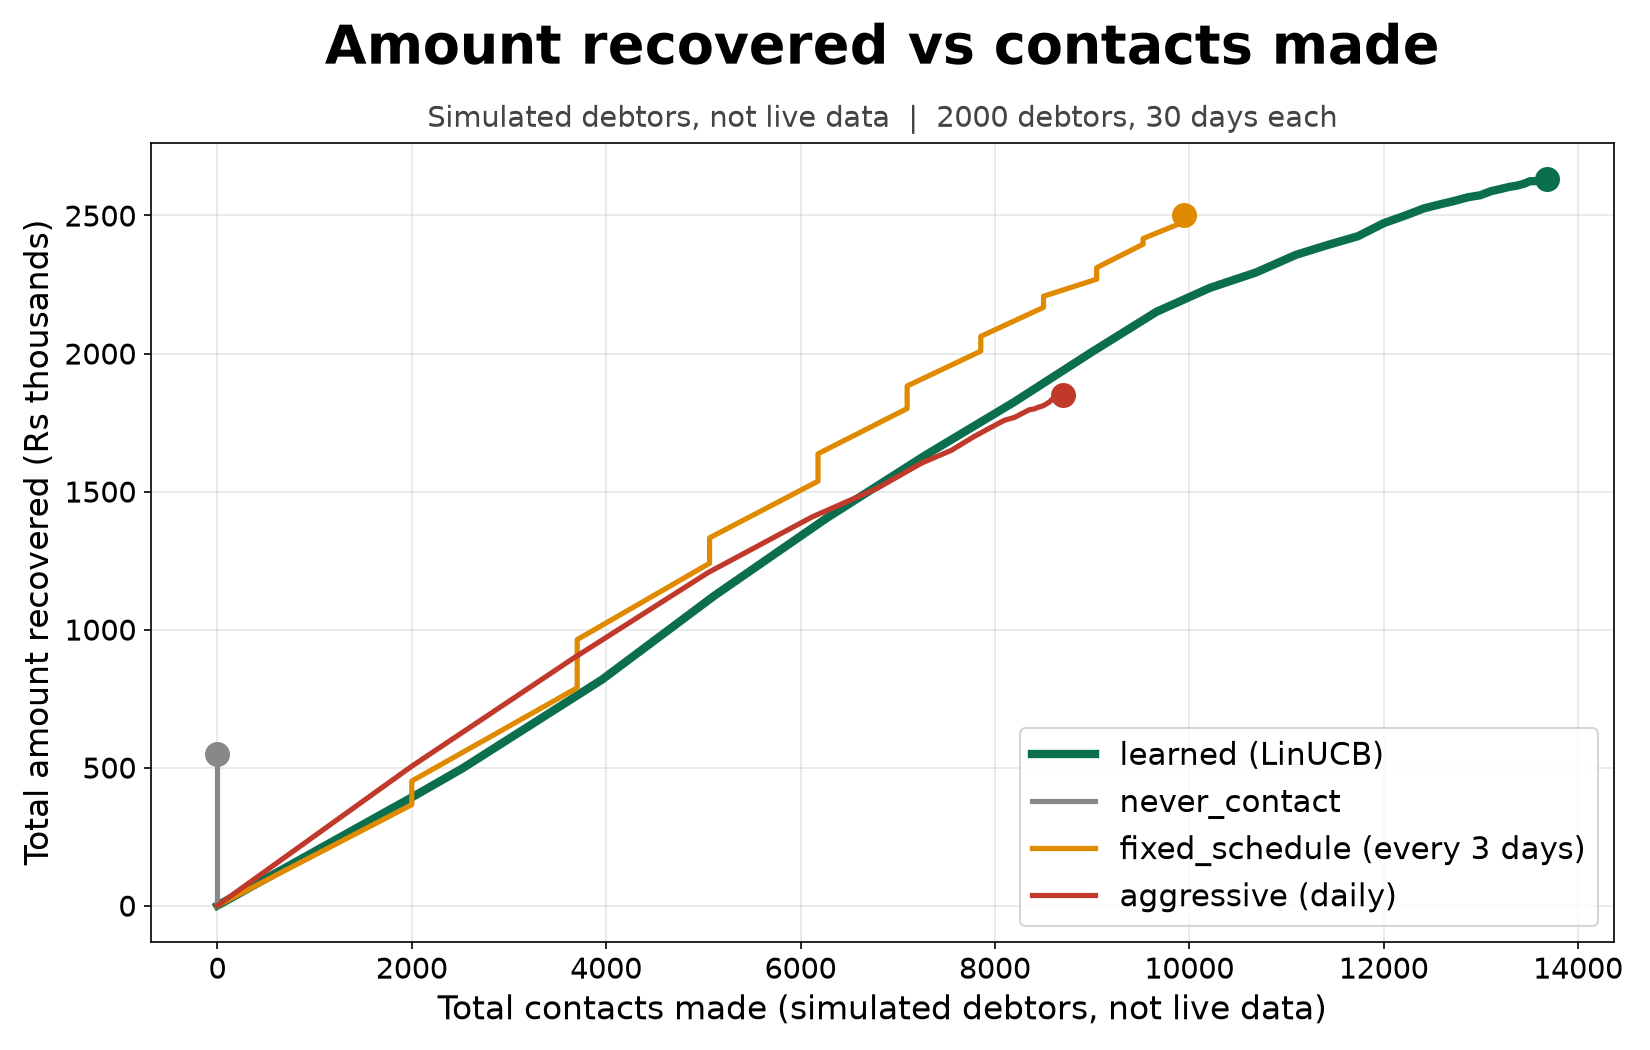
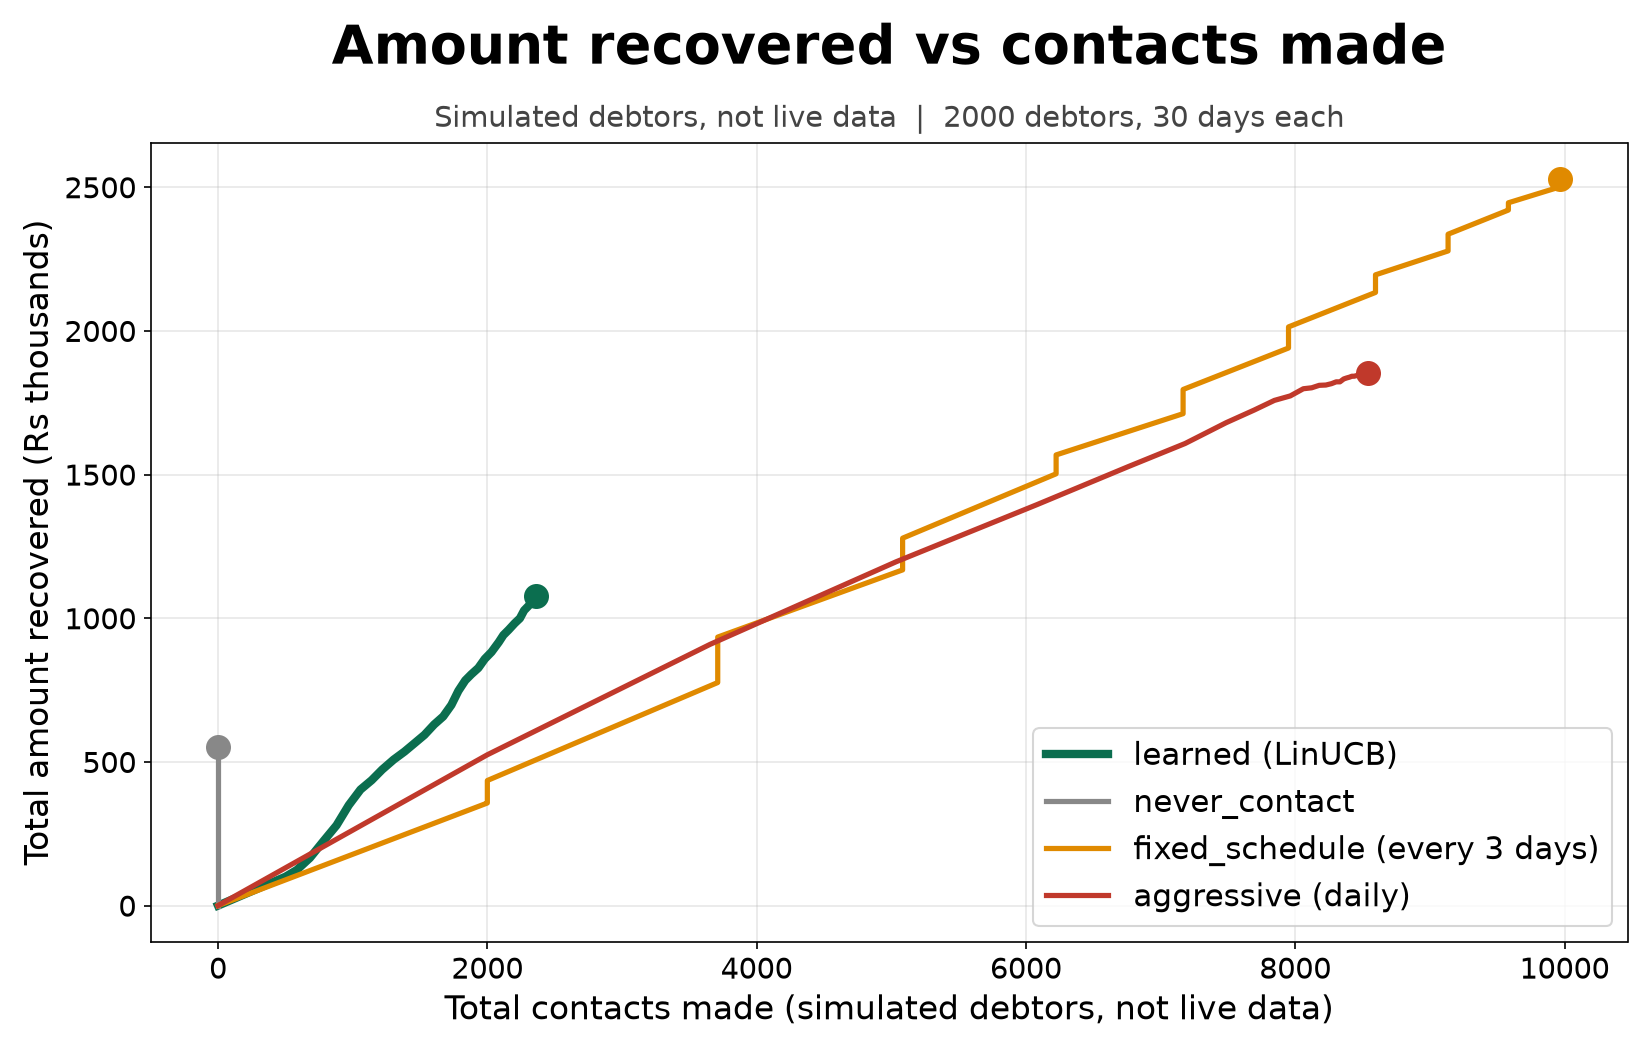
policy: price opt-out as lost customer (amount + 6x monthly_spend); still loses to fixed schedule
Opt-out reward is now -(amount + 6 * monthly_spend) with monthly_spend a new
200-5000 debtor trait independent of the debt. monthly_spend and the
amount/monthly_spend ratio join the context vector. Retrained, nothing else tuned.

Result on 2000 held-out simulated debtors: the learned policy does NOT beat the
3-day fixed schedule on recovered amount (1.08M vs 2.53M) or net reward (1.04M vs
1.55M). It is far more conservative: 5 opt-outs vs 61, 2.4k contacts vs 10.0k.
It does treat customers differently (about 3.2 contacts per low-spend debtor,
0.0 per high-spend one, where the fixed schedule contacts everyone about 5), but
it overcorrects and leaves money uncollected. The app has no monthly_spend data,
so infer.py uses 2600 and the value-based behaviour is inert in production.
Simulated debtors, not live data.

diff --git a/policy/train.py b/policy/train.py
@@ -8,7 +8,7 @@ import matplotlib.pyplot as plt
 import numpy as np
 
 from policy.bandit import LinUCB, features
-from policy.simulator import ACTIONS, HORIZON, rollout
+from policy.simulator import ACTIONS, HORIZON, Debtor, rollout
 
 HERE = Path(__file__).parent
 TRAIN_N, EVAL_N = 4000, 2000
@@ -40,7 +40,25 @@ def train(seed=0):
 def evaluate(choose):
     """Same debtors (seeds) for every policy. -> cumulative recovered/contacts per day, opt-outs."""
     runs = [rollout(10**7 + i, choose) for i in range(EVAL_N)]
-    return sum(r[0] for r in runs), sum(r[1] for r in runs), sum(r[2] for r in runs)
+    return sum(r[0] for r in runs), sum(r[1] for r in runs), sum(r[2] for r in runs), sum(r[3] for r in runs)
+
+
+def by_group(choose, key, label):
+    """Learned vs baseline behaviour split into terciles of key(debtor), on the same held-out debtors."""
+    debtors = [Debtor(np.random.default_rng(10**7 + i)) for i in range(EVAL_N)]  # traits are drawn first
+    lo, hi = np.quantile([key(d) for d in debtors], [1 / 3, 2 / 3])
+    rows = {g: [0, 0, 0, 0, 0] for g in ("low", "mid", "high")}  # n, contacts, firm, opt-outs, recovered
+    for i, d in enumerate(debtors):
+        acts = []
+        def wrapped(c):
+            acts.append(choose(c))
+            return acts[-1]
+        rec, con, opt, _ = rollout(10**7 + i, wrapped)
+        row = rows["low" if key(d) <= lo else "mid" if key(d) <= hi else "high"]
+        row[:] = [row[0] + 1, row[1] + con[-1], row[2] + acts.count(FIRM), row[3] + opt, row[4] + rec[-1]]
+    print(f"  {label:<14}{'n':>6}{'contacts/debtor':>17}{'firm share':>12}{'opt-out %':>11}{'Rs/debtor':>11}")
+    for g, (n, con, firm, opt, rec) in rows.items():
+        print(f"  {g:<14}{n:>6}{con / n:>17.1f}{firm / max(con, 1):>12.0%}{opt / n:>11.1%}{rec / n:>11,.0f}")
 
 
 if __name__ == "__main__":
@@ -50,14 +68,20 @@ if __name__ == "__main__":
     results = {"learned (LinUCB)": evaluate(learned)} | {n: evaluate(f) for n, f in BASELINES.items()}
 
     print(f"\nSimulated debtors, not live data: {EVAL_N} held-out debtors, {HORIZON}-day episodes\n")
-    print(f"{'policy':32}{'recovered':>12}{'contacts':>10}{'opt-outs':>10}{'Rs/contact':>12}")
-    for name, (rec, con, opt) in results.items():
-        print(f"{name:32}{rec[-1]:>12,.0f}{con[-1]:>10,.0f}{opt:>10}{rec[-1] / max(con[-1], 1):>12,.0f}")
+    print(f"{'policy':32}{'recovered':>12}{'contacts':>10}{'opt-outs':>10}{'Rs/contact':>12}{'net reward':>13}")
+    for name, (rec, con, opt, net) in results.items():
+        print(f"{name:32}{rec[-1]:>12,.0f}{con[-1]:>10,.0f}{opt:>10}{rec[-1] / max(con[-1], 1):>12,.0f}{net:>13,.0f}")
+
+    fixed = BASELINES["fixed_schedule (every 3 days)"]
+    for key, label in [(lambda d: d.monthly_spend, "monthly_spend"), (lambda d: d.amount / d.monthly_spend, "amount/spend")]:
+        for name, f in (("learned", learned), ("fixed 3-day", fixed)):
+            print(f"\n{name}, by {label} (low = tercile with the least spend / smallest debt-to-spend ratio):")
+            by_group(f, key, label)
 
     fig, ax = plt.subplots(figsize=(11, 7))
     colors = {"learned (LinUCB)": "#0b6e4f", "never_contact": "#888888",
               "fixed_schedule (every 3 days)": "#e08a00", "aggressive (daily)": "#c0392b"}
-    for name, (rec, con, _) in results.items():
+    for name, (rec, con, *_) in results.items():
         ax.plot(np.r_[0, con], np.r_[0, rec] / 1000, lw=4 if name.startswith("learned") else 2.5,
                 color=colors[name], label=name)
         ax.plot(con[-1], rec[-1] / 1000, "o", ms=11, color=colors[name])

diff --git a/policy/simulator.py b/policy/simulator.py
@@ -21,6 +21,7 @@ class Debtor:
         self.fatigue = rng.uniform(0.05, 0.3)
         self.amount = float(rng.integers(150, 3001))
         self.overdue0 = int(rng.integers(0, 60))
+        self.monthly_spend = float(rng.integers(200, 5001))  # independent of the debt: what the customer buys
         self.day, self.annoy, self.engage = 0, 0.0, 0.0
         self.contacts, self.last_contact = 0, None
         self.promises_made = self.promises_kept = 0
@@ -29,7 +30,7 @@ class Debtor:
 
     def context(self):
         since = HORIZON if self.last_contact is None else self.day - self.last_contact
-        return {"days_overdue": self.overdue0 + self.day, "amount": self.amount, "contacts_so_far": self.contacts,
+        return {"days_overdue": self.overdue0 + self.day, "amount": self.amount, "monthly_spend": self.monthly_spend, "contacts_so_far": self.contacts,
                 "promises_made": self.promises_made, "promises_kept": self.promises_kept,
                 "days_since_last_contact": since, "last_outcome": self.last_outcome}
 
@@ -53,7 +54,7 @@ class Debtor:
             self.annoy += self.fatigue * ANNOY[action] * (1.5 if over and action == "call_firm" else 1)
             p_opt = OPT[action] * min(0.8, 0.005 + 0.4 * max(0.0, self.annoy - THRESHOLD))
             if rng.random() < p_opt:
-                return r - 20, False, True, True
+                return r - (self.amount + 6 * self.monthly_spend), False, True, True  # lose the debt and the customer
             if rng.random() < min(0.95, self.propensity * REACH[action]) * (0.5 if over else 1):
                 self.last_outcome = "engaged"
                 fatigue_mult = 1.0 if self.annoy < THRESHOLD else max(0.05, 1 - 1.5 * (self.annoy - THRESHOLD))
@@ -75,16 +76,17 @@ class Debtor:
 
 def rollout(seed, choose, learn=None):
     """Run one 30-day episode. choose(ctx)->action index into ACTIONS; learn(ctx, action, reward) is called each step.
-    -> per-day arrays (recovered, contacts) padded after the episode ends, and the opt-out flag."""
+    -> per-day arrays (recovered, contacts) padded after the episode ends, the opt-out flag, and the total reward."""
     d = Debtor(np.random.default_rng(seed))
-    recovered, contacts, opted = np.zeros(HORIZON), np.zeros(HORIZON), False
+    recovered, contacts, opted, total = np.zeros(HORIZON), np.zeros(HORIZON), False, 0.0
     for t in range(HORIZON):
         ctx = d.context()
         a = choose(ctx)
         r, paid, opted, contacted = d.step(ACTIONS[a])
+        total += r
         if learn:
             learn(ctx, a, r)
         recovered[t:], contacts[t:] = recovered[t:] + (d.amount if paid else 0), contacts[t:] + contacted
         if paid or opted:
             break
-    return recovered, contacts, opted
+    return recovered, contacts, opted, total

diff --git a/policy/infer.py b/policy/infer.py
@@ -9,6 +9,7 @@ from policy.bandit import LinUCB, features
 from policy.simulator import ACTIONS, HORIZON
 
 PARAMS = Path(__file__).parent / "params.npz"
+DEFAULT_SPEND = 2600.0  # midpoint of the simulated 200-5000 range: the app has no monthly_spend data
 _model = None  # ponytail: loaded once per process, restart the server after retraining
 
 
@@ -23,7 +24,7 @@ def _load():
 
 def learned_next_action(debt_context):
     """debt_context: the 7 fields from policy.simulator.Debtor.context(). -> {action, reason}, greedy."""
-    values = _load().values(features(debt_context))
+    values = _load().values(features({"monthly_spend": DEFAULT_SPEND, **debt_context}))
     best, second = np.argsort(-values)[:2]
     since = debt_context["days_since_last_contact"]
     history = (f"{debt_context['contacts_so_far']} contact(s) so far, last {since} day(s) ago"

diff --git a/policy/bandit.py b/policy/bandit.py
@@ -4,7 +4,7 @@ import numpy as np
 from policy.simulator import ACTIONS, OUTCOMES
 
 SCALE = 100.0  # rewards are divided by this so alpha is comparable across amounts
-D = 7 + len(OUTCOMES) + 2
+D = 7 + len(OUTCOMES) + 2 + 2
 
 
 def features(ctx):
@@ -13,7 +13,8 @@ def features(ctx):
     onehot = [float(ctx["last_outcome"] == o) for o in OUTCOMES]
     # amt*rec and amt*c: expected reward is amount x probability, which a plain linear model can't express
     return np.array([1, ctx["days_overdue"] / 90, amt, c, ctx["promises_made"] / 3, ctx["promises_kept"] / 3,
-                     rec, *onehot, amt * rec, amt * c])
+                     rec, *onehot, amt * rec, amt * c,
+                     ctx["monthly_spend"] / 5000, ctx["amount"] / ctx["monthly_spend"] / 15])
 
 
 class LinUCB:

diff --git a/policy/test_policy.py b/policy/test_policy.py
@@ -15,7 +15,7 @@ firm = [rollout(i, lambda c: 3) for i in range(300)]
 assert sum(r[2] for r in firm) > 0 and sum(r[2] for r in [rollout(i, lambda c: 0) for i in range(300)]) == 0
 assert all(r[1].max() <= 30 for r in firm)
 
-ctx = {"days_overdue": 20, "amount": 800, "contacts_so_far": 0, "promises_made": 0, "promises_kept": 0,
+ctx = {"monthly_spend": 2000.0, "days_overdue": 20, "amount": 800, "contacts_so_far": 0, "promises_made": 0, "promises_kept": 0,
        "days_since_last_contact": 30, "last_outcome": "none"}
 out = infer.learned_next_action(ctx)
 assert out["action"] in ACTIONS and out["reason"]
